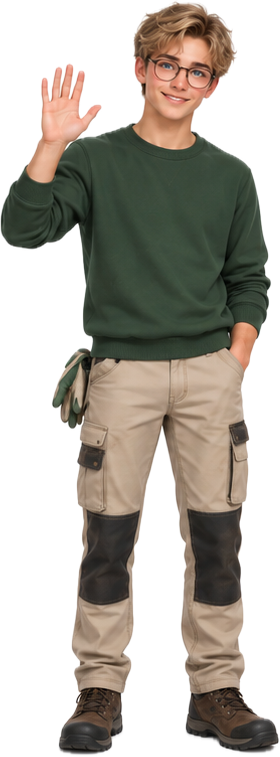
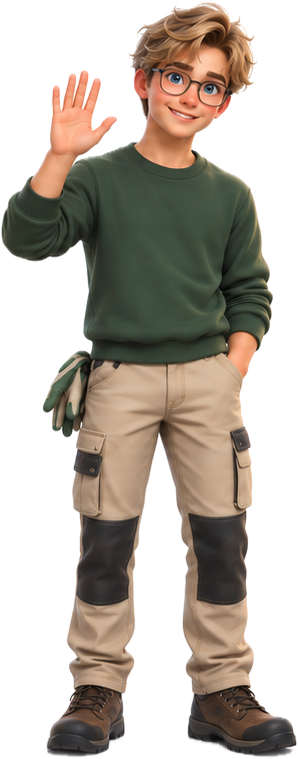
UNREP : Célian et décor en style jeu vidéo 3D stylisé

Changed region(s): [[0.0, 0.0, 1.0, 1.0], [0.6857, 0.3342, 0.7143, 0.3646], [0.4571, 0.395, 0.4857, 0.4254]]

diff --git a/unrep/terrain.html b/unrep/terrain.html
@@ -75,7 +75,7 @@
 </head>
 <body>
 <div id="stage">
- <img id="fond" class="fond" src="img/jardin.jpg" alt="">
+ <img id="fond" class="fond" src="img/jardin-jeu.jpg" alt="">
  <div id="voile"></div>
  <div id="tete"><div class="sur">Étape 1 · Observer</div><h1>Trois spécimens à identifier</h1><p>Ouvre une photo, trouve les trois indices cachés dessus, puis révèle son identité.</p></div>
  <div id="compteur">🔎 <span id="nb">0</span> / 3 identifiés</div>

diff --git a/unrep/bravo.html b/unrep/bravo.html
@@ -31,7 +31,7 @@
 </head>
 <body>
 <div id="stage">
- <img id="fond" class="fond" src="img/jardin.jpg" alt="">
+ <img id="fond" class="fond" src="img/jardin-jeu.jpg" alt="">
  <div id="halo"></div>
  <div id="fx"></div>
  <div id="badge"><div id="med3d"></div><div id="tourne">↻ Fais-la tourner</div></div>

diff --git a/unrep/accueil.html b/unrep/accueil.html
@@ -35,7 +35,7 @@
 </head>
 <body>
 <div id="stage">
- <img id="fond" class="fond" src="img/jardin.jpg" alt="">
+ <img id="fond" class="fond" src="img/jardin-jeu.jpg" alt="">
  <div id="voile"></div>
  <div id="fx"></div>
  <div id="tete" class="entree" style="--d:.1s">
